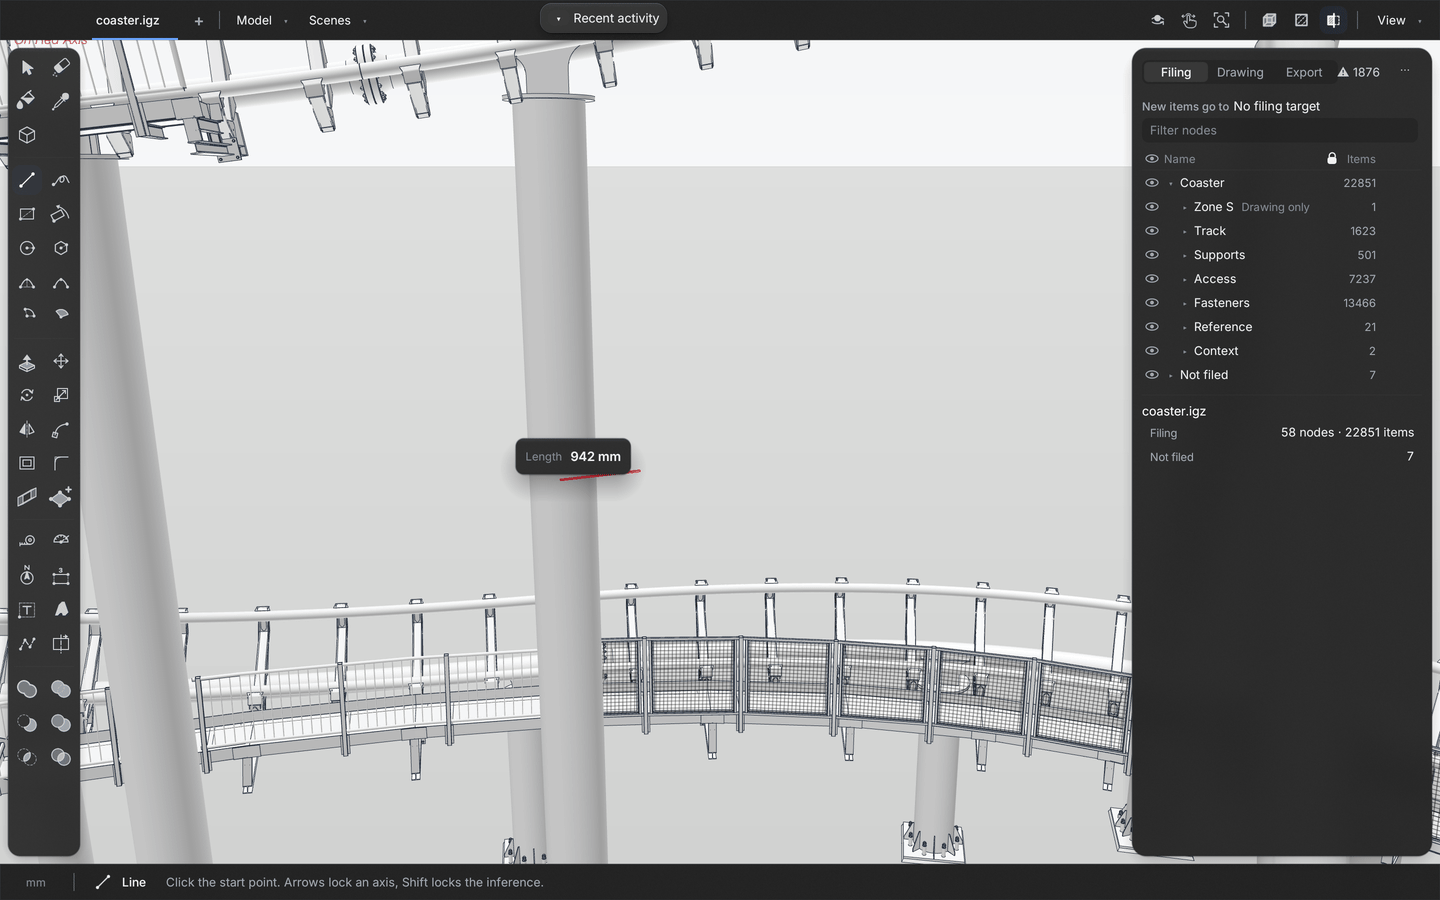
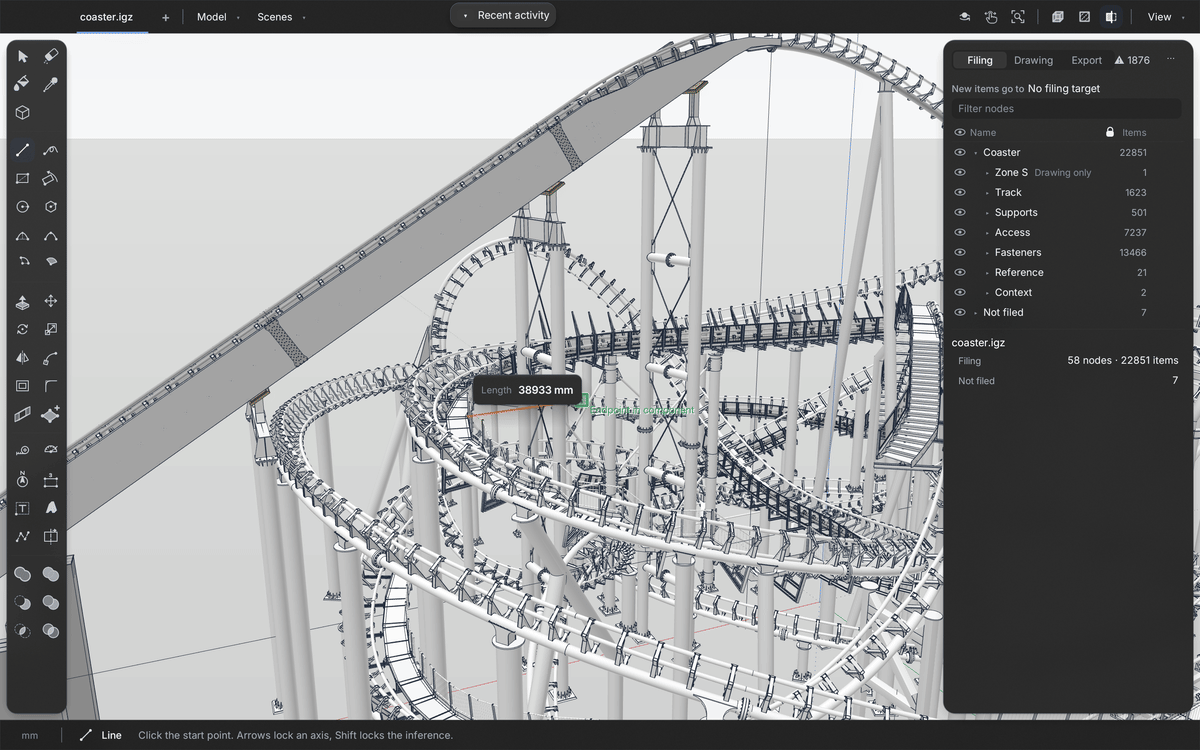
README: no caption about the model, a clean Line tool shot, the IFC note
The Line tool screenshot is retaken: an endpoint snap with its label and
the length, nothing clipped under the top bar. The run command and
requirements.txt were tried on a fresh environment: the native modules
build into it, the application starts and opens a document. IDS checks
need ifcopenshell, which requirements.txt does not install.

diff --git a/README.md b/README.md
@@ -10,14 +10,12 @@ Built is pre-release. There is no public download yet; you build it from source.
 
 | | |
 |---|---|
-| ![The Line tool drawing along the red axis, with the length shown beside the cursor](docs/images/built/line-tool.png) | ![An element selected in the model, with the project tree and its record in the dock](docs/images/built/tree-and-record.png) |
-| **Drawing with inference.** The Line tool locks to an axis and shows the length as you move. | **Project tree and record.** A selected element shows where it is filed, its tag, material and file. |
+| ![The Line tool snapping to an endpoint, with the length shown beside the cursor](docs/images/built/line-tool.png) | ![An element selected in the model, with the project tree and its record in the dock](docs/images/built/tree-and-record.png) |
+| **Drawing with inference.** The Line tool snaps to an endpoint and shows the length as you move. | **Project tree and record.** A selected element shows where it is filed, its tag, material and file. |
 | ![The Drawing columns of the project tree: line weight, hatch, line and colour per node](docs/images/built/drawing-columns.png) | ![The Export columns of the project tree with a readiness count per node and a fix checklist](docs/images/built/export-checks.png) |
 | **Drawing columns.** The same tree sets line weight, hatch and colour per node. | **Export checks.** Each node shows how many of its items are ready for IFC, with a checklist of what to fix. |
 
 ![The model from the front](docs/images/built/front-view.png)
-
-*The screenshots use a copy of a real as-built model in which every name, tag and material was replaced by a generated label.*
 
 ## What works today
 
@@ -36,7 +34,7 @@ Built is pre-release. There is no public download yet; you build it from source.
 | `.built` | Built's own format: a ZIP with JSON and binary geometry, 64-bit coordinates. See [`docs/built-format.md`](docs/built-format.md). |
 | `.igz` | Opens. These are the files of the modeller Built grew from. |
 | `.skp` | Imports `.skp` files, with their materials. |
-| IFC | Exports IFC4 (and IFC4X3) from the object records, with IDS checks. See [`docs/ifc-export.md`](docs/ifc-export.md). |
+| IFC | Exports IFC4 (and IFC4X3) from the object records. IDS checks need `ifcopenshell`, which `requirements.txt` does not install. See [`docs/ifc-export.md`](docs/ifc-export.md). |
 
 ## Building from source
 
